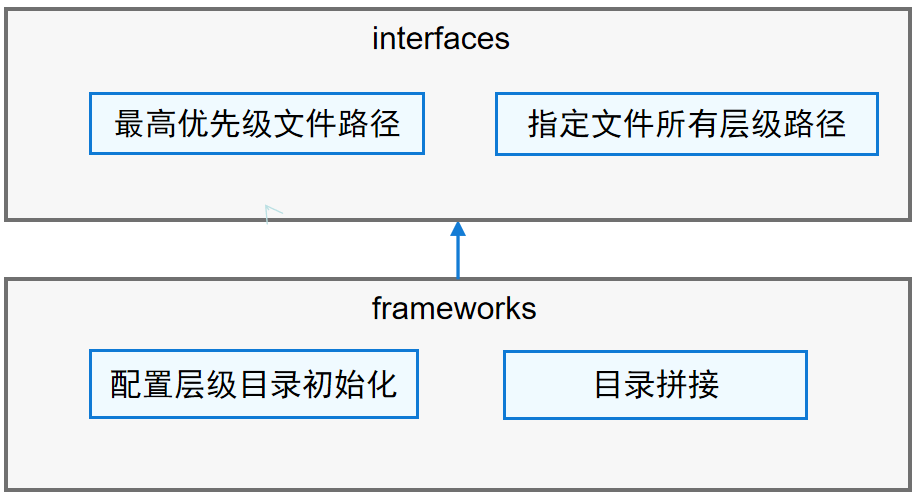
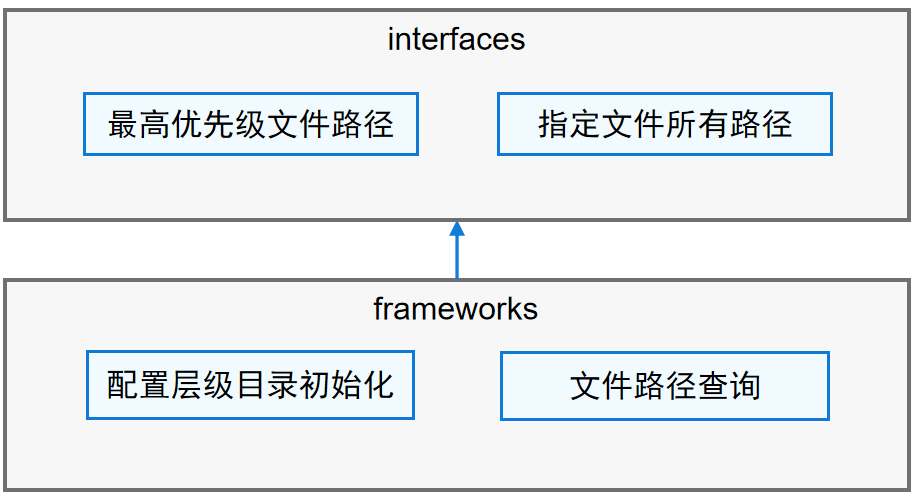
修改资料

diff --git a/README_zh.md b/README_zh.md
@@ -13,7 +13,7 @@
 配置策略组件架构图说明：
 
 - interfaces对外提供指定文件的最高优先级文件路径以及指定文件所有层级路径。
-- frameworks实现配置层级目录的初始化与文件路径的拼接。
+- frameworks实现配置层级目录的初始化与文件路径查询。
 
 ## 目录
 
